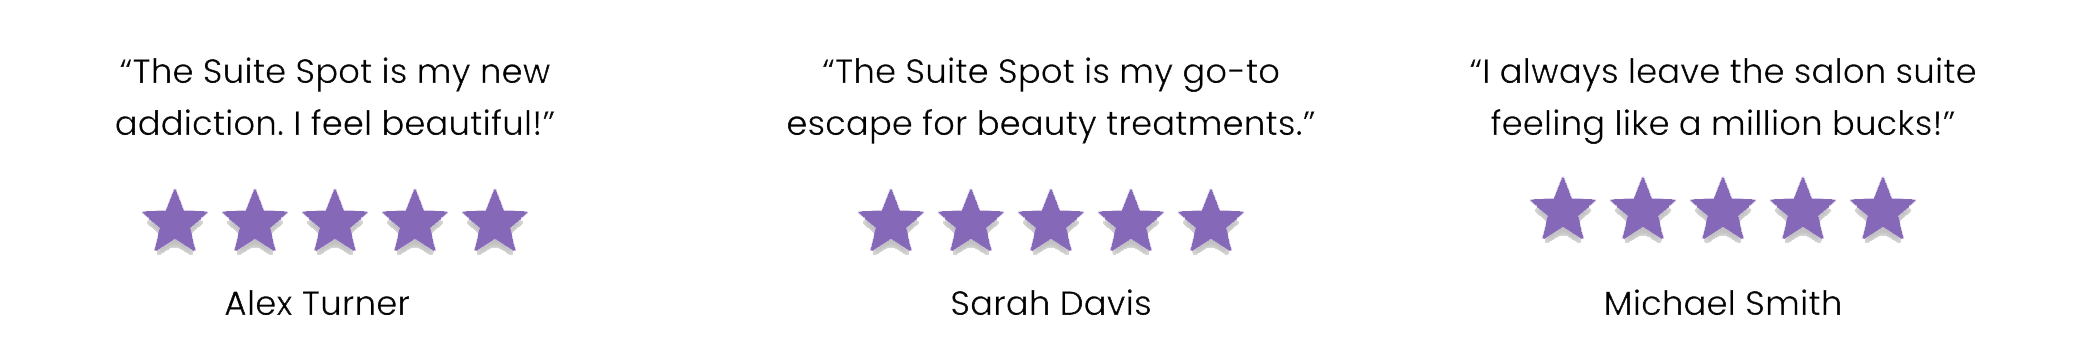
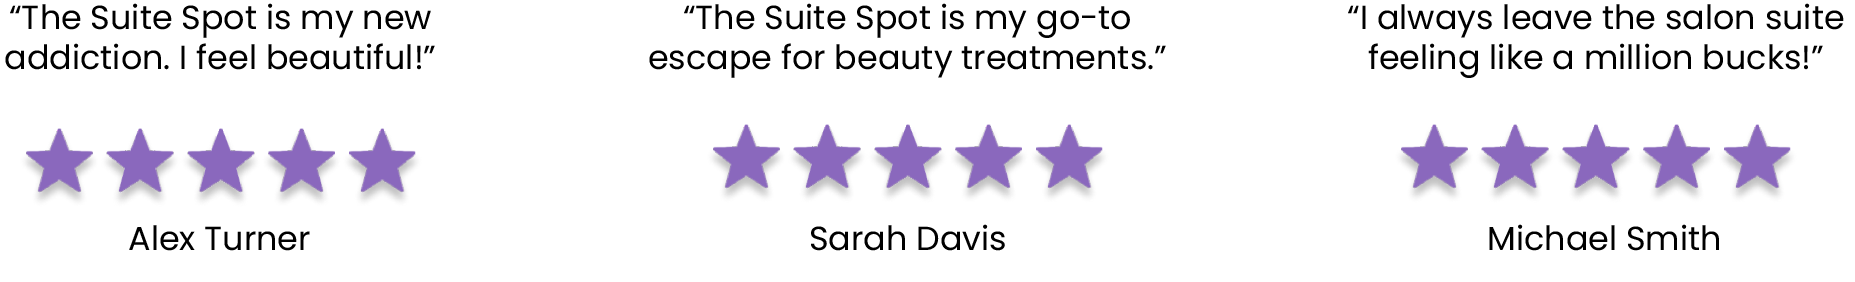
fixed testimonials

diff --git a/src/Styles/home.css b/src/Styles/home.css
@@ -216,14 +216,22 @@ h3 {
     }
 
 
-    .div {
-        display: none;
-    }
+
+        .testimonials {
+
+            margin-bottom: 20px;
+        }
 
 }
 
 /*web styles:*/
 @media screen and (min-width: 767px) {
+
+    .testimonials {
+        width: 80%;
+        margin-top: 20px;
+        margin-bottom: 20px;
+    }
 
     .gallery {
         /*mobile gallery*/
